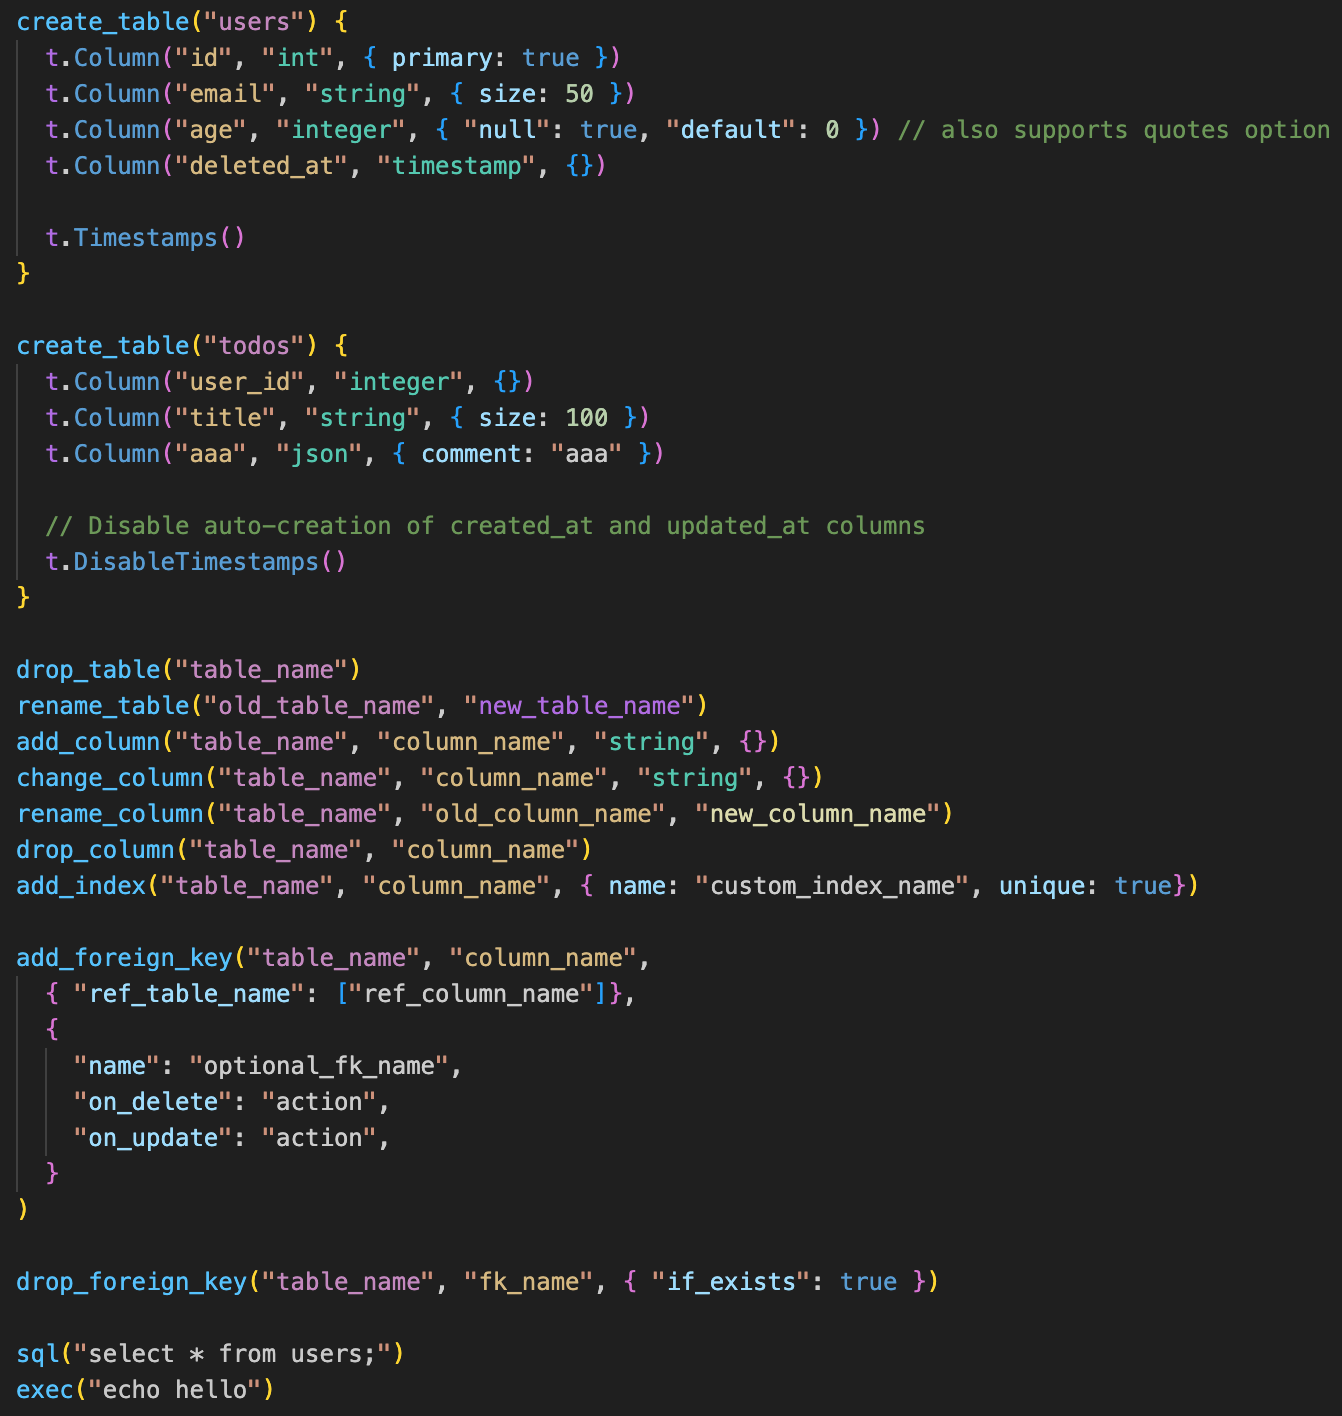
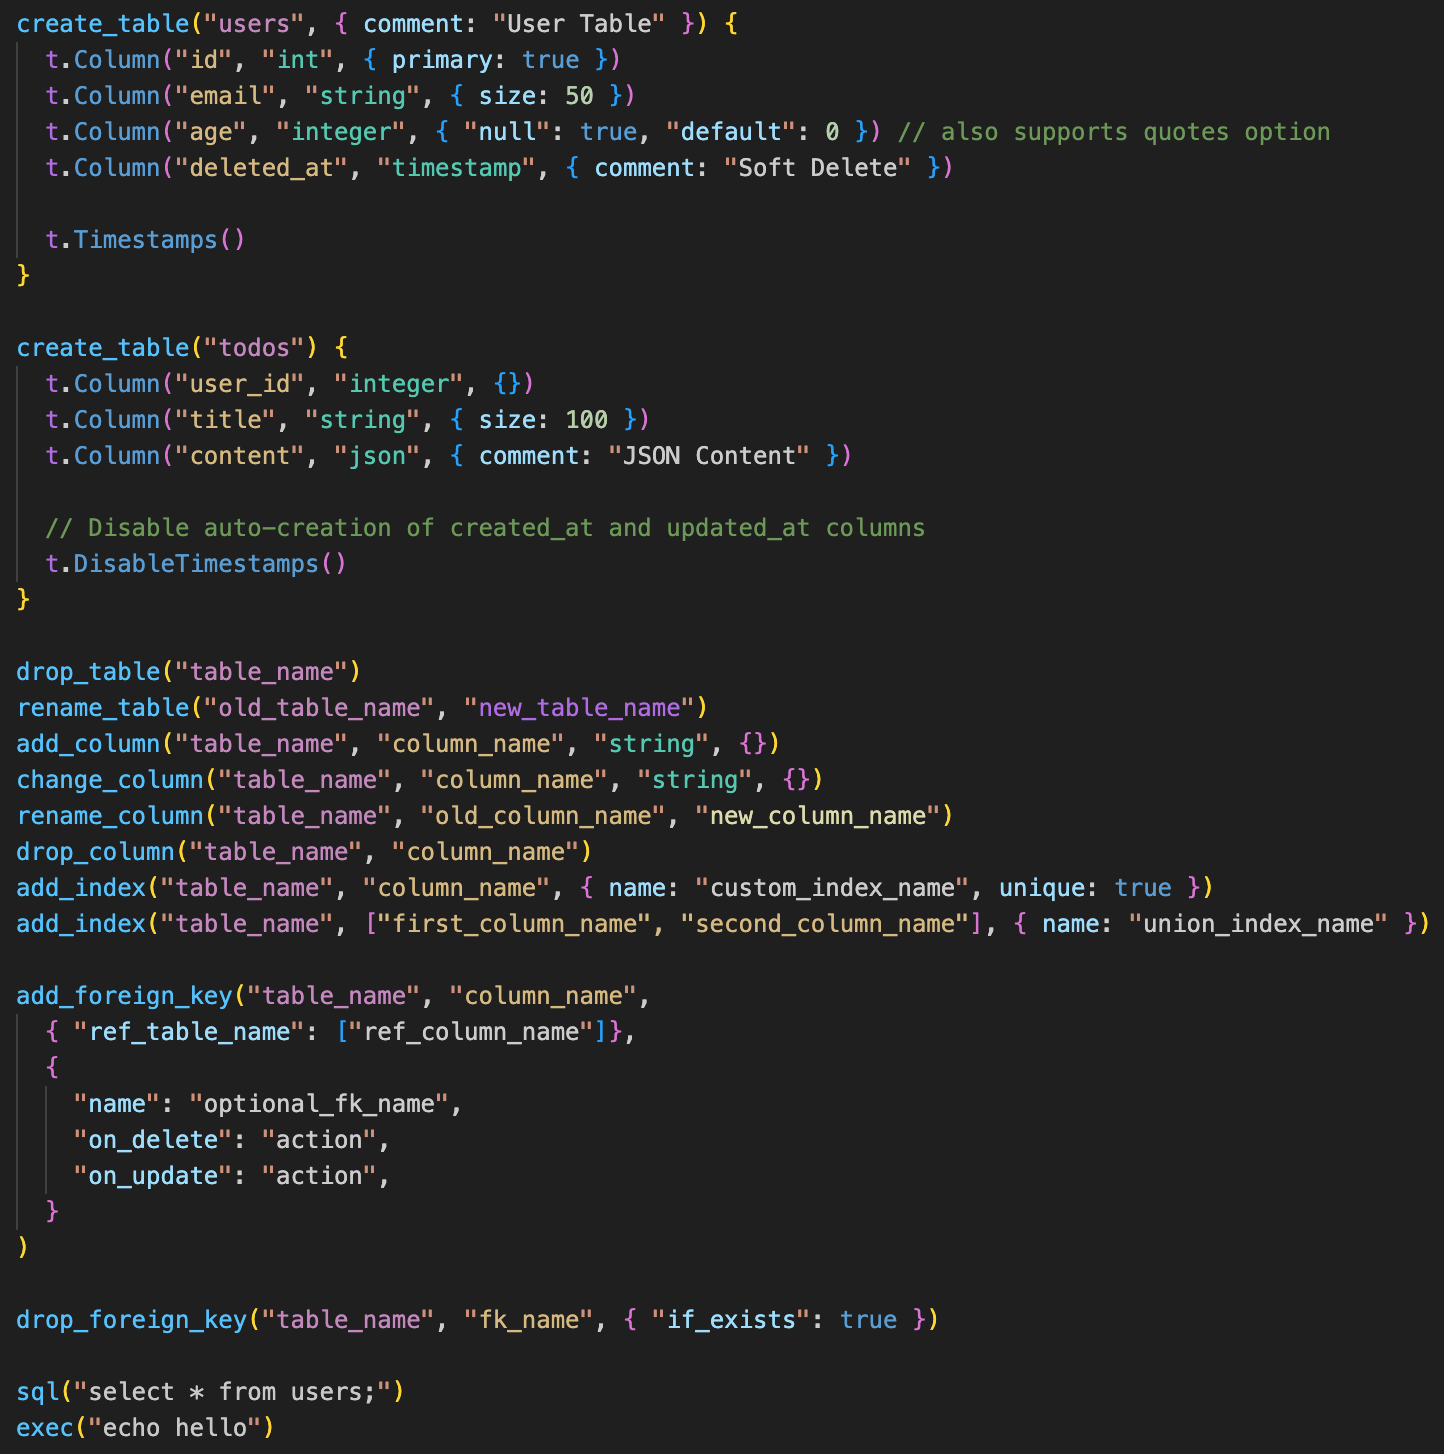
Version 1.1.1

diff --git a/CHANGELOG.md b/CHANGELOG.md
@@ -5,6 +5,13 @@ All notable changes to the "fizz" extension will be documented in this file.
 The format is based on [Keep a Changelog](https://keepachangelog.com/),
 and this project adheres to [Semantic Versioning](https://semver.org/spec/v2.0.0.html).
 
+## [1.1.1] - 2023-11-01
+
+### Fixed
+
+- Syntax Highlighting for function `create_table` with a comment.
+- Correct syntax highlighting for union indexes.
+
 ## [1.1.0] - 2023-10-28
 
 ### Changed
